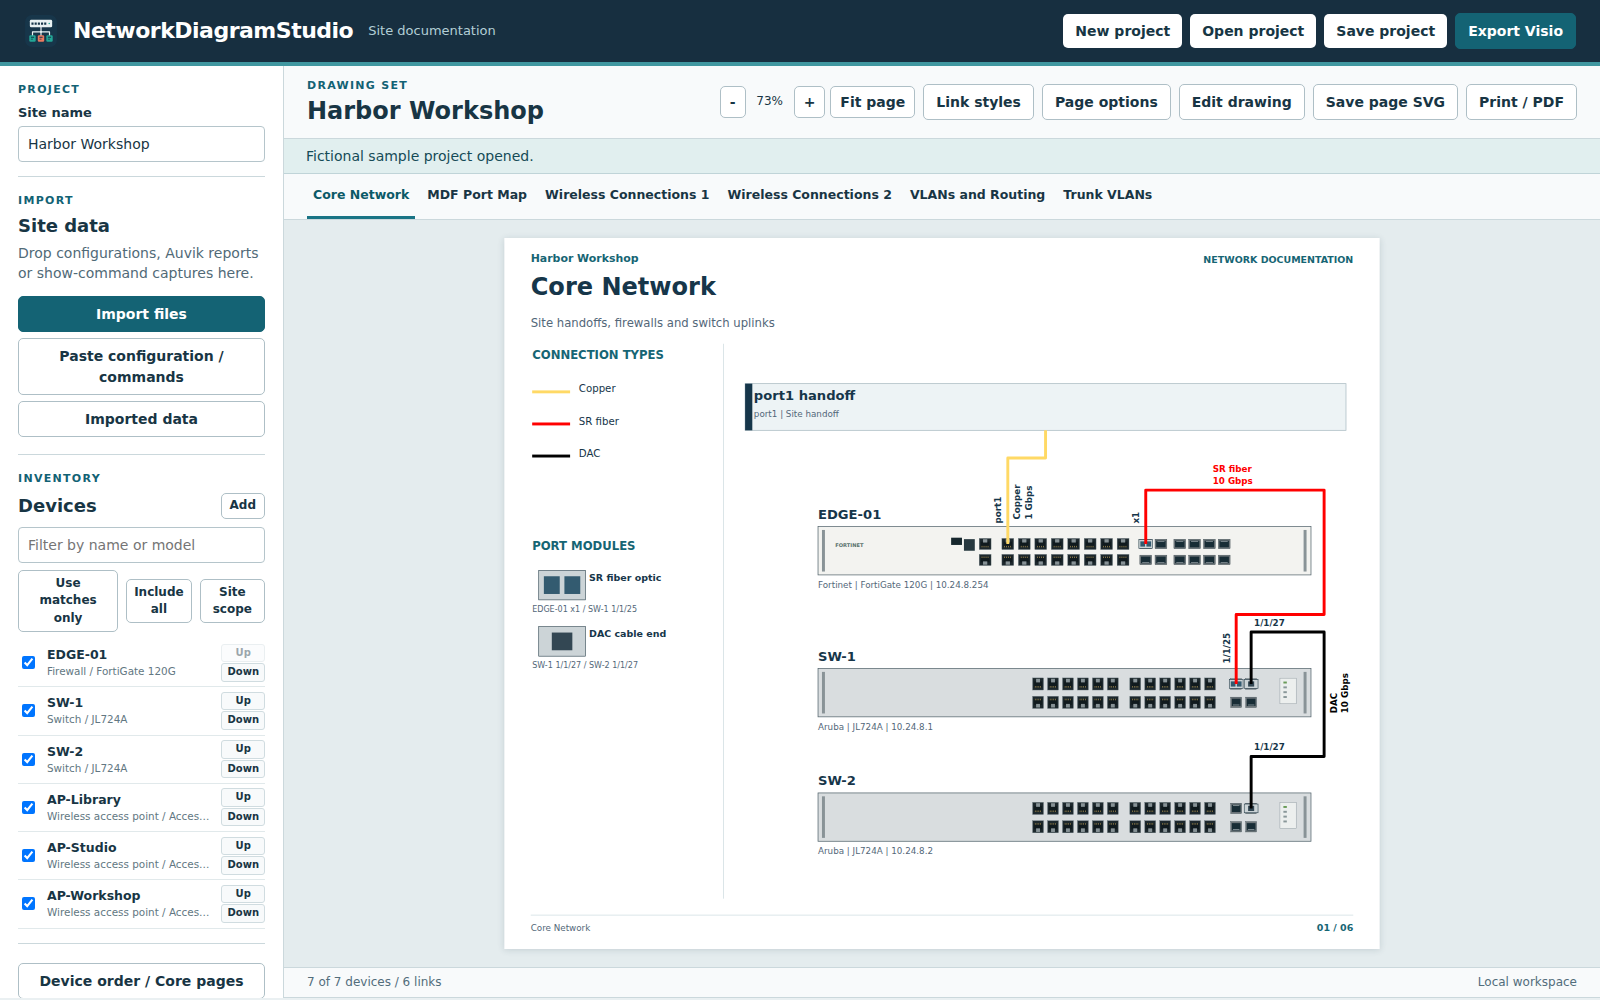
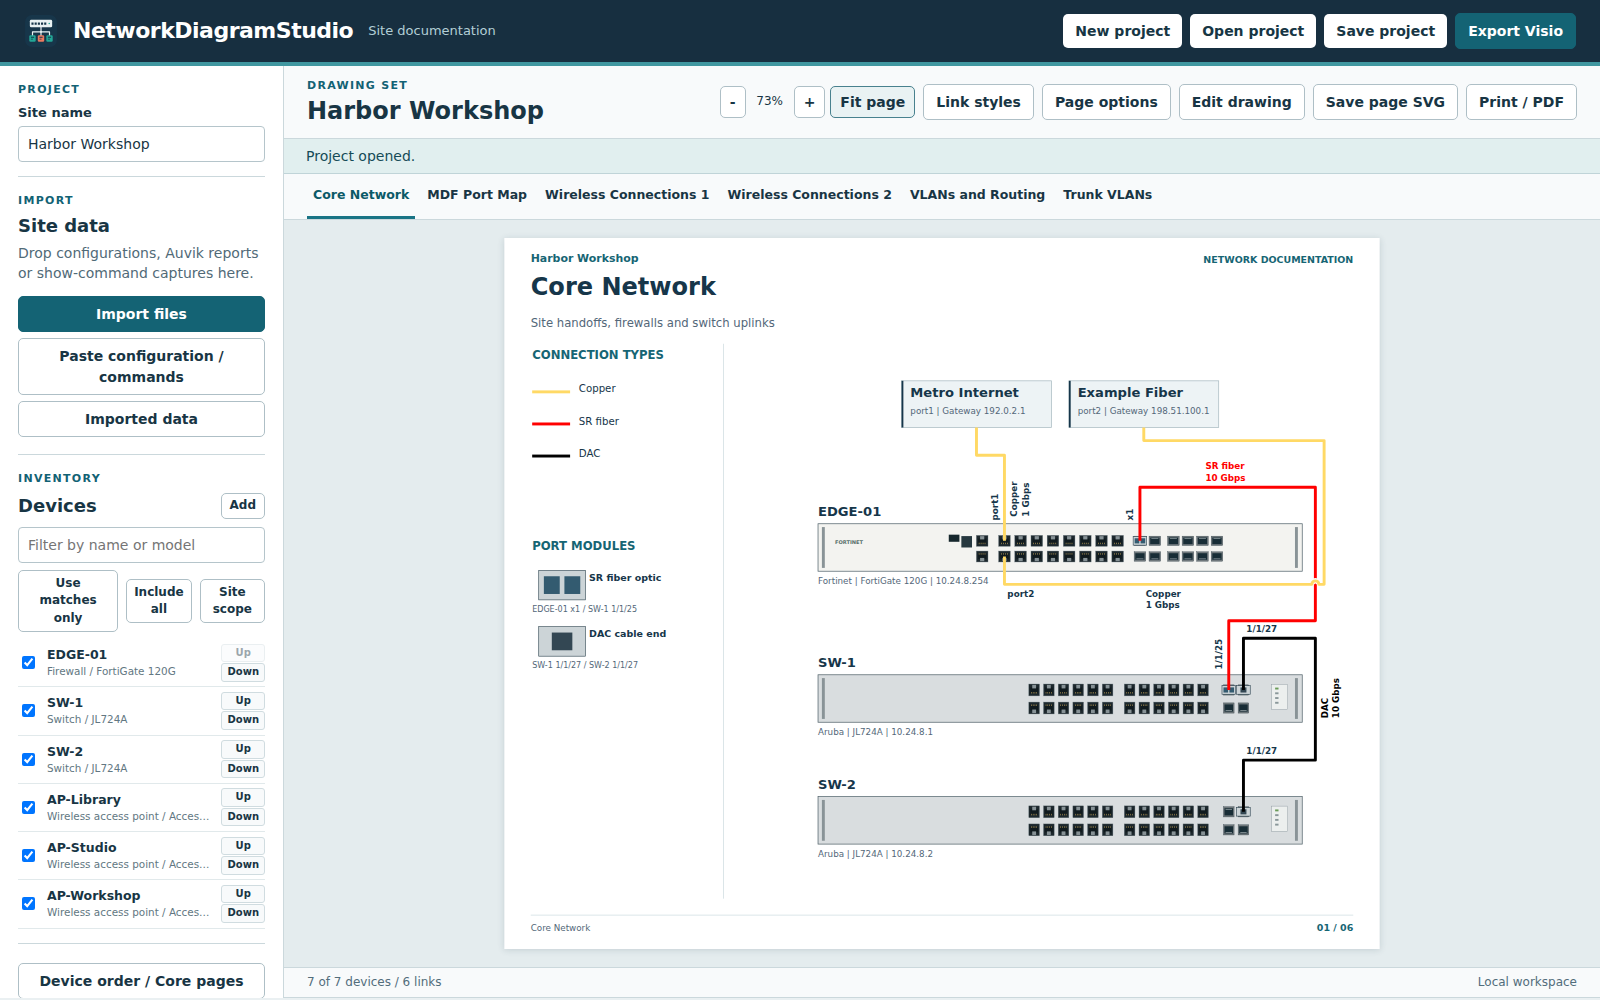
Keep WAN circuit cards and routes compact within the device stack

diff --git a/DEVELOPMENT_HANDOFF.md b/DEVELOPMENT_HANDOFF.md
@@ -1,5 +1,13 @@
 # Development handoff
 
+## Preview.15 compact WAN/circuit layout
+
+Prepares 0.1.0-preview.15 / file version 0.1.0.15 from published preview.14 at cf51ed1f6524463b9d373519c85fb5f2cce2d8a4. Preview.14 PR #9 and merged-main Windows validation passed; the public tag, feed, EXE/ZIP hashes and embedded version/icon/source were verified. Its two existing download files were updated. The user authorized building and releasing this additional layout change. Require green exact-head Windows checks, merge, merged-main checks and public asset/feed verification before describing preview.15 as published.
+
+WAN cards measure complete provider/port/gateway captions, with font-substitution allowance, and use their owner's actual body width. Compact rows stay inside the stack span; narrow bodies use extra rows. A lone card aligns with a known top-facing physical port when possible. Page measurement uses the same body width and scale as rendering. Routing considers internal card corridors and tight actual-body exterior bounds while retaining collision, shared-segment, crossing, bend and length priorities. If compact rows cannot accommodate cable labels, a bounded retry spreads the same narrow cards within the available stack width before automatic continuation. Deliberate position/size edits remain authoritative.
+
+Local coverage includes one through seven WAN circuits on one core page, full wrapped captions, label/body/path clearance, single straight routes, internal corridors, narrow panels and explicit card edits. Browser checks load two/four/long-name cases, edit provider text, save/reopen, download Visio and open the offline build. The fictional main screenshot is refreshed. Windows validation remains required. Eight tightly packed circuits can still exceed readable label capacity, as in preview.14; do not claim unlimited density. Direct Microsoft Visio rendering remains unverified.
+
 ## Preview.14 conditional update bar
 
 Prepares 0.1.0-preview.14 / file version 0.1.0.14 from published preview.13 at 1ba5419937d5fa503a146cb7fe2a35a4adafbc60. Preview.13 passed PR and merged-main Windows checks and its public tag, feed and asset hashes were verified. The user authorized building and publishing this UI adjustment. Require green final-head Windows checks, merge, merged-main checks and public asset/feed verification before describing preview.14 as published.

diff --git a/README.md b/README.md
@@ -21,7 +21,7 @@ Network engineers can use the Windows application or the offline browser edition
 - Zoom into port mapping, box-select sockets, move a group with the mouse or arrow keys, and align or distribute the selection. Port maps use consistent port-number boxes and a shared assignment matrix with one port column per switch. Expanded tables, individual rows and optional empty-record filtering remain available.
 - Save and reopen projects, export editable Visio drawings, save the current page as SVG, or print the drawing set to PDF.
 - Keep complete diagram captions with measured wrapping in both SVG and Visio. Module keys expand or continue onto a module sheet; duplicate wording such as Port port1 is avoided.
-- Use the Visio-reference presentation with Calibri, a left connection/module key, nearby device labels and handoff cards. Configure page-number visibility, starting values, padding and format.
+- Use the Visio-reference presentation with Calibri, a left connection/module key, nearby device labels and compact WAN/circuit cards. Circuit cards fit the actual stack width, use extra rows on narrow devices and retain complete provider/gateway text. Routes use available space inside the stack width when port orientation and clearances permit. Configure page-number visibility, starting values, padding and format.
 
 ## Screenshots
 
@@ -143,4 +143,4 @@ Open **dist/NetworkDiagramStudio.html** after the build. To publish the Windows 
 python scripts/package-release.py
 ```
 
-[Contributor guide](AGENTS.md) · [Development handoff](DEVELOPMENT_HANDOFF.md) · [Release notes](docs/releases/0.1.0-preview.13.md) · [Third-party notices](docs/THIRD_PARTY_NOTICES.md)
+[Contributor guide](AGENTS.md) · [Development handoff](DEVELOPMENT_HANDOFF.md) · [Release notes](docs/releases/0.1.0-preview.15.md) · [Third-party notices](docs/THIRD_PARTY_NOTICES.md)

diff --git a/AGENTS.md b/AGENTS.md
@@ -79,3 +79,5 @@ Shift cable/bend dragging retains a dominant axis until Shift is released; grid 
 Trunk matrices measure full headings and row labels and plan column batches to minimize sheet count. Keep minimum column/row dimensions, fixed readable fonts, complete membership cells and footer clearance; do not return to a fixed six-column split. Unknown switch/firewall models use generic role symbols without socket anchors. The Netgate 2100 shared mvneta1 interface is not an individual physical LAN port. PA-415 management and ethernet1/1 are separate combo pairs.
 
 Keep the desktop update strip hidden unless a newer release is offered. Its hidden state must reclaim the entire docked area. Preserve manual checking, update details and third-party notices through the desktop-only Help control in the existing header. Post status changes to the initialized editor without replacing its scene. Automatic no-update/error results must not create a permanent banner.
+
+Size generated WAN cards from complete measured captions and the actual owner body width, including per-page scale. Reserve font-substitution clearance, keep cards inside the stack span and add rows for narrow bodies. Try compact placement first, then spread cards within that span only when cable/label clearance requires it. Consider internal handoff corridors without weakening chassis, shared-segment, crossing or bend priorities. Explicit card/device edits remain authoritative.

diff --git a/docs/releases/0.1.0-preview.15.md b/docs/releases/0.1.0-preview.15.md
@@ -1,0 +1,8 @@
+# NetworkDiagramStudio 0.1.0-preview.15
+
+- WAN, circuit and ISP cards use compact widths based on their full labels and fit within the main device body. Narrow devices use additional rows.
+- Circuit routes use space inside the stack width when port orientation and clearances allow. A single facing-port connection can be straight; necessary exterior paths stay close to the body.
+- Longer provider and gateway labels wrap without truncation. Cards spread within the available width when needed to keep cable labels separate.
+- Existing manual device/card positions and sizes remain editable. The README screenshot shows the updated layout.
+
+Validation covers compact and dense WAN layouts, complete captions, cable/label clearance, saved edits, browser and offline rendering, and the native Visio export package. The conditional update bar from preview.14 remains included.
